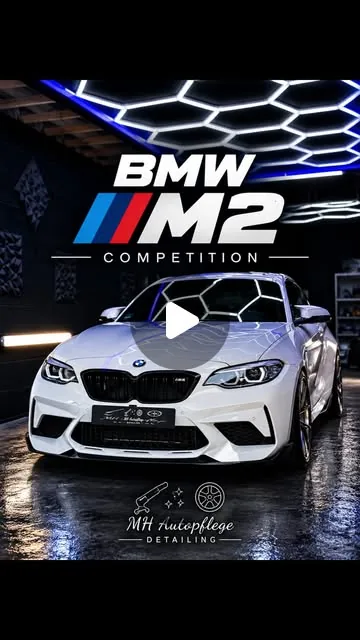
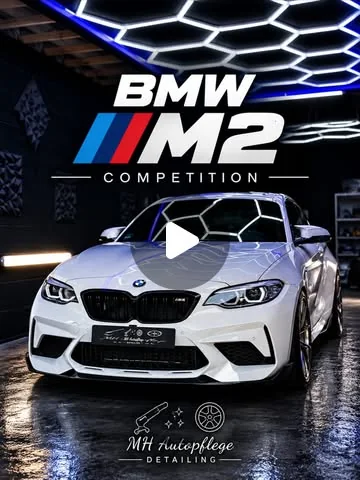
Reels: Cover ohne schwarze Balken, einheitlich 3:4
Instagram liefert die Cover als 9:16 mit Letterbox-Balken; der
Inhalt ist der mittlere 3:4-Bereich. Alle Cover darauf zugeschnitten,
Kacheln auf 3:4 umgestellt, Doku angepasst.

Claude-Session: https://claude.ai/code/session_01FJBmio9YbKcLtveup218TA

diff --git a/index.html b/index.html
@@ -320,7 +320,7 @@
       </div>
 
       <!-- Reels: reine Links zu Instagram (keine Einbettung, keine Meta-Skripte).
-           Neues Reel: <li> kopieren, href, aria-label und Vorschaubild (assets/img/reels/, 9:16) anpassen.
+           Neues Reel: <li> kopieren, href, aria-label und Vorschaubild (assets/img/reels/, 3:4, 360x480) anpassen.
            Ohne Vorschaubild: Variante "reel--text" mit Modellname nutzen (siehe DOKU.md). -->
       <div class="container reels-head">
         <h3 class="reels-head__title"><svg aria-hidden="true"><use href="#i-ig"/></svg>Reels</h3>
@@ -329,31 +329,31 @@
       <ul class="reels">
         <li>
           <a class="reel" href="https://www.instagram.com/p/DVtqnoqjZZN/" target="_blank" rel="noopener noreferrer" aria-label="BMW M4 – Reel auf Instagram ansehen">
-            <img src="assets/img/reels/bmw-m4.webp" width="360" height="640" loading="lazy" decoding="async" alt="">
+            <img src="assets/img/reels/bmw-m4.webp" width="360" height="480" loading="lazy" decoding="async" alt="">
             <span class="reel__cta"><svg aria-hidden="true"><use href="#i-ig"/></svg>Ansehen</span>
           </a>
         </li>
         <li>
           <a class="reel" href="https://www.instagram.com/p/De60wO9NVuD/" target="_blank" rel="noopener noreferrer" aria-label="GLC 63 S AMG – Reel auf Instagram ansehen">
-            <img src="assets/img/reels/glc-63-amg.webp" width="360" height="640" loading="lazy" decoding="async" alt="">
+            <img src="assets/img/reels/glc-63-amg.webp" width="360" height="480" loading="lazy" decoding="async" alt="">
             <span class="reel__cta"><svg aria-hidden="true"><use href="#i-ig"/></svg>Ansehen</span>
           </a>
         </li>
         <li>
           <a class="reel" href="https://www.instagram.com/p/DejndtnNtky/" target="_blank" rel="noopener noreferrer" aria-label="BMW M2 – Reel auf Instagram ansehen">
-            <img src="assets/img/reels/bmw-m2.webp" width="360" height="640" loading="lazy" decoding="async" alt="">
+            <img src="assets/img/reels/bmw-m2.webp" width="360" height="480" loading="lazy" decoding="async" alt="">
             <span class="reel__cta"><svg aria-hidden="true"><use href="#i-ig"/></svg>Ansehen</span>
           </a>
         </li>
         <li>
           <a class="reel" href="https://www.instagram.com/p/DcQIJCmtHz7/" target="_blank" rel="noopener noreferrer" aria-label="Piaggio – Reel auf Instagram ansehen">
-            <img src="assets/img/reels/piaggio.webp" width="360" height="640" loading="lazy" decoding="async" alt="">
+            <img src="assets/img/reels/piaggio.webp" width="360" height="480" loading="lazy" decoding="async" alt="">
             <span class="reel__cta"><svg aria-hidden="true"><use href="#i-ig"/></svg>Ansehen</span>
           </a>
         </li>
         <li>
           <a class="reel" href="https://www.instagram.com/p/Db6M6GyNDyL/" target="_blank" rel="noopener noreferrer" aria-label="SQ5 – Reel auf Instagram ansehen">
-            <img src="assets/img/reels/sq5.webp" width="360" height="640" loading="lazy" decoding="async" alt="">
+            <img src="assets/img/reels/sq5.webp" width="360" height="480" loading="lazy" decoding="async" alt="">
             <span class="reel__cta"><svg aria-hidden="true"><use href="#i-ig"/></svg>Ansehen</span>
           </a>
         </li>

diff --git a/assets/css/style.css b/assets/css/style.css
@@ -689,7 +689,7 @@ a, button { cursor: pointer; touch-action: manipulation; }
 .reels {
   display: grid;
   grid-auto-flow: column;
-  grid-auto-columns: clamp(170px, 19vw, 250px);
+  grid-auto-columns: clamp(200px, 21vw, 280px);
   gap: 12px;
   padding-inline: max(var(--gutter), calc((100vw - var(--container)) / 2));
   overflow-x: auto;
@@ -703,7 +703,7 @@ a, button { cursor: pointer; touch-action: manipulation; }
 .reel {
   position: relative;
   display: block;
-  aspect-ratio: 9 / 16;
+  aspect-ratio: 3 / 4;
   overflow: hidden;
   border-radius: var(--radius);
   background: var(--color-surface);

diff --git a/DOKU.md b/DOKU.md
@@ -89,9 +89,9 @@ Neues Reel:
    ```bash
    curl -s "https://www.instagram.com/p/<ID>/" | grep -o '<meta property="og:image" content="[^"]*"'
    ```
-   Bild-URL herunterladen (`&amp;` → `&`), als WebP 9:16 speichern (Metadaten entfernen):
+   Bild-URL herunterladen (`&amp;` → `&`). Instagram liefert 360×640 mit schwarzen Balken; der eigentliche Inhalt ist der mittlere 3:4-Bereich. Als WebP 3:4 speichern (Metadaten entfernen):
    ```bash
-   ffmpeg -i cover.jpg -vf "scale=360:640:force_original_aspect_ratio=increase,crop=360:640" -c:v libwebp -quality 82 -map_metadata -1 assets/img/reels/<name>.webp
+   ffmpeg -i cover.jpg -vf "crop=iw:iw*4/3,scale=360:480" -c:v libwebp -quality 84 -map_metadata -1 assets/img/reels/<name>.webp
    ```
    Alternativ Screenshot aus der App verwenden.
 3. In `index.html` im Block `.reels` ein `<li>` kopieren, `href`, `aria-label` und Bildpfad anpassen. „Alle Reels“ bleibt die letzte Kachel.
